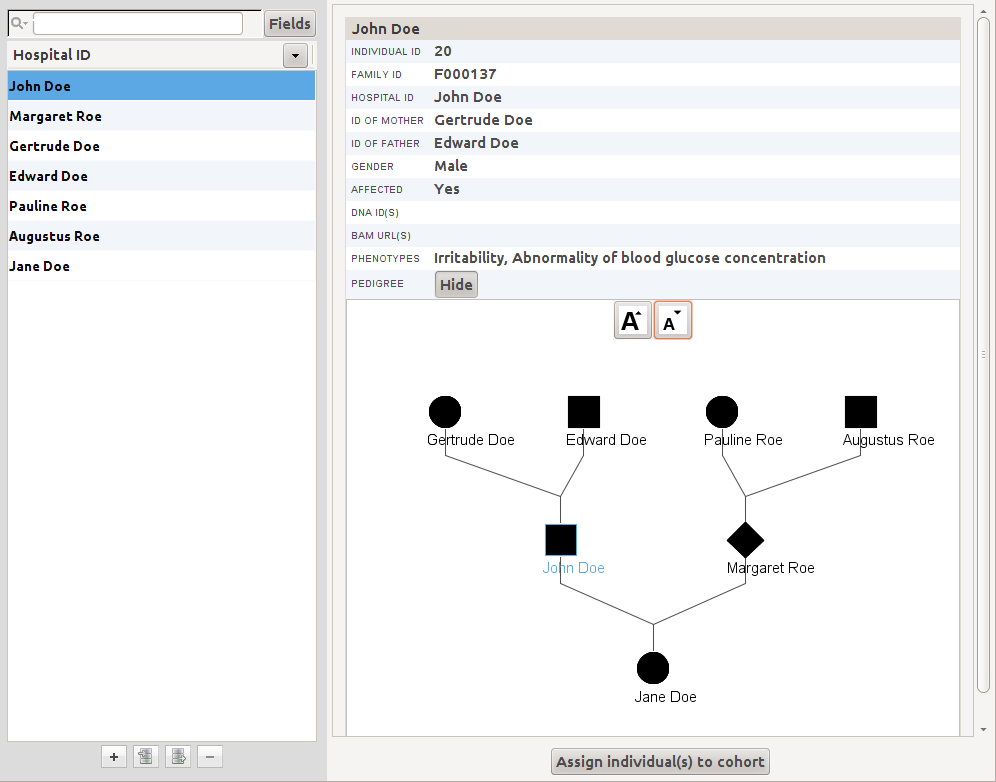
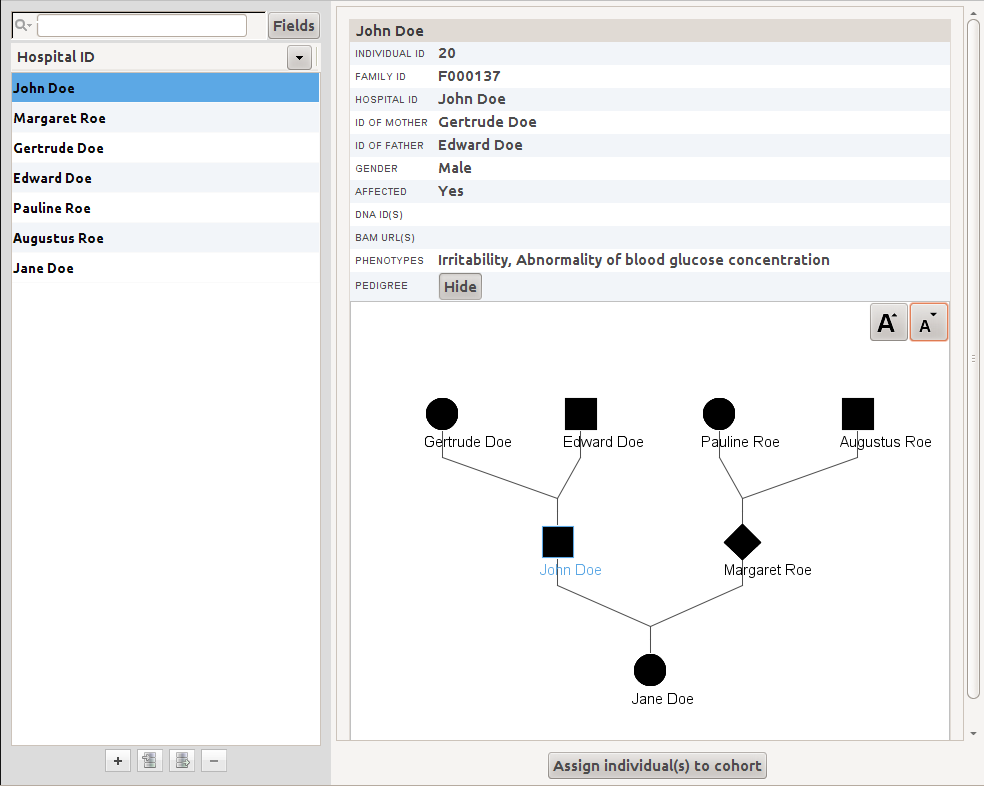
Some manual cleanup, visual tweaks.

diff --git a/medsavant/tutorials/browsingvariants/spreadsheet.html b/medsavant/tutorials/browsingvariants/spreadsheet.html
@@ -5,7 +5,7 @@ button in the main pane towards the center of the MedSavant window.  Each varian
 <h4><a id="VariantInspector">Variant Inspector</a></h4>
 <p>The "Inspector" is a powerful feature found in the Spreadsheet subsection and elsewhere within the "Variants" section of MedSavant.  The Inspector can be accessed by clicking the "Inspector" button, located near the top of the MedSavant window just below the section selection button bar.  Clicking this displays a panel to the right showing information about the selected variant including <b>Basic Variant Information</b>: i.e. the chromosomal position, Reference and Alternate nucleotides, type of mutation, and a drop-down list of Genes associated with the position (<span class="ref" id="basicvar"> </span>). </p>
 
-<div class="row">
+<div class="row fixed-figure">
 	<div class="span6 offset1">
 		<img src="./tutorials/browsingvariants/images/inspector_variant.png" />
 	</div>
@@ -22,12 +22,9 @@ button in the main pane towards the center of the MedSavant window.  Each varian
 	</div>
 </div>
 
-<div class="row">
-	<div class="span11 offset1">
-		<div class="caption" id="basicvar">
-  		Example of the "Inspector" view for the selected position 12,009,911 on Chromosome 1.  Clicking the 'Show' button displays additional information including DP, AF1, AC1, DP4, MQ, FQ, and PV4. <span style="color:red">Marc: Insert text here</span>.  
-		</div>
-	</div>
+
+<div class="caption" id="basicvar">
+	Example of the "Inspector" view for the selected position 12,009,911 on Chromosome 1.  Clicking the 'Show' button displays additional information including DP, AF1, AC1, DP4, MQ, FQ, and PV4. <span style="color:red">Marc: Insert text here</span>.  
 </div>
 
 <p>Just below the variant information is a textbox where comments can be viewed and edited for this variant, and below that is a list of individuals that possess any variant at the selected position.  Clicking any of these individuals will display the particular polymorphism, insertion, or deletion associated with that individual.  Then, clicking the 'Show' button will de-select the currently selected variant, and load the variant corresponding to the selected individual into the inspector (<span class="ref" id="indswithvariant"></span>, right side).  Below this are two buttons that launch a hierarchical display of the variants at this position, organized by Cohort or Family (<span class="ref" id="indswithvariant"></span>, left side).  In this way, one can see at a glance which variants are over-represented within a Cohort or family, or relative to the entire database of DNA sequences.  </p>
@@ -45,7 +42,7 @@ button in the main pane towards the center of the MedSavant window.  Each varian
 <p> The Gene Inspector can be launched by clicking the "Gene" tab of the inspector, or via the <img class="inline_icon" src="./tutorials/browsingvariants/icons/inspector2.png" /> button in <span class="ref" id="basicvar"></span>.  This inspector is organized into four sub-panels of information: "Gene Details", "Individuals with a variant in this gene", "Ontology", and "Related Genes".  The "Gene Details" section contains basic information including the name of the gene, its chromosomal position, and its DNA sequence length (<span style="color:red;">exons only?</span>) (<span class="ref" id="inspector_gene"></span>).  Immediately below, the "Individuals with a variant in this gene" section lists all individuals that possess any type of variant that lies within the range delimited by the start and end of this Gene's sequence.  Clicking any individual will bring up a summary of the variants that individual possesses.  In <span class="ref" id="inspector_gene"></span>, the individual with sequence identifier DB_MD_244_M9-1 has three heterozygous insertions <span style="color:red">(are these meaningful?  only spaced by 1-2 nucleotides)</span> at various positions within this gene (PRDM2).  Clicking the <img class="inline_icon" src="./tutorials/browsingvariants/icons/expand.png" /> icon beside any of the listed variants provides additional detail on the Reference and Alternate sequences for that variant.
 	
 	
-<div class="row">
+<div class="row fixed-figure">
 	<div class="span6 offset1">
 		<img src = "./tutorials/browsingvariants/images/inspector_gene.png" />		
 	</div>
@@ -77,15 +74,11 @@ button in the main pane towards the center of the MedSavant window.  Each varian
     </div>
 	</div>
 </div>
-
-<div class="row">
-	<div class="span11 offset1">
-		<div class="caption" id="inspector_gene">
- 			Gene Inspector		
- 		</div>
-	</div>
+		
+<div class="caption" id="inspector_gene">
+	Gene Inspector for the gene PRDM2.  		
 </div>
-	
+		
 <p>Similar to the Cohort and Family analysis tools in the previous <a href="#VariantInspector">Variant Inspector</a> section, the Gene Inspector section also includes two buttons to view the frequency with which variants occur in the selected gene by Cohort or by Family.  These work similarily to those in the previous section, but include an additional 'Position' column, as <b>all</b> variants for the selected gene are shown (<span class="ref" id="genecohortanalysis" /></span>).</p>
 
 <div class="figure">
@@ -100,7 +93,7 @@ button in the main pane towards the center of the MedSavant window.  Each varian
 <p> Each GeneMANIA prediction is listed in descending order of similarity to the selected query gene, so that the most similar genes are listed first.  The variation frequency, listed beside each gene, displays the fraction of variant positions per kilobase (<span style="color:red;">Is this right?</span>), and several buttons as summarized in <span class="ref" id="genemania"></span>.</p>
 
 
-<div class="row">
+<div class="row fixed-figure">
 	<div class="span6 offset1">
 		<img src = "./tutorials/browsingvariants/images/related_genes.png" />		
 	</div>
@@ -129,13 +122,11 @@ button in the main pane towards the center of the MedSavant window.  Each varian
     </div>
 	</div>
 </div>
-
-<div class="row">
-	<div class="span11 offset1">
-		<div class="caption" id="genemania">
-    	Genes related to the selected (query) gene, found by the GeneMANIA algorithm.  Genes that are most similar to the query gene are shown first.
- 		</div>
-	</div>
+		
+<div class="caption" id="genemania">
+	Genes related to the selected (query) gene, found by the GeneMANIA algorithm.  Genes that are most similar to the query gene are shown first.
 </div>
+ 		
+ 		
 
 

diff --git a/medsavant/tutorials/dataentry/patients.html b/medsavant/tutorials/dataentry/patients.html
@@ -4,17 +4,17 @@ After logging into MedSavant, or clicking the 'Project' section, a summary will 
 patients (individuals) and cohorts can be added via the 'Patients' and Cohorts subsections, respectively, from this section. 
 </p>
 <h4>Adding and Removing Patients</h4>
-<p>Patients can be added manually, one at a time by clicking the <img class="inline_icon" src="./tutorials/dataentry/icons/add.png" /> icon near the bottom left of the MedSavant window.  This pops up the 
+<p>Patients can be added manually, one at a time by clicking the <img class="inline_icon" src="./tutorials/dataentry/icons/mac_add.png" /> icon near the bottom left of the MedSavant window.  This pops up the 
 "Add Patient" window, containing various fields, all of which are optional except the Hospital ID, that can be filled out.  Some fields - including DNA ID(s), BAM URL(s), and Phenotypes 
 support multiple values, which should be separated by new lines.  BAM URL(s) should be prefixed with the appropriate protocol -- e.g. http:// or https://.  After adding an 
 individual, the hospital ID for that individual will be listed in the left pane, and selecting that identifier will display the record for that individual. Individuals may also be removed
-by clicking the <img src="inline_icon" src="./tutorials/dataentry/icons/remove.png" /> icon located near the bottom left of the MedSavant window.   </p>
+by clicking the <img class="inline_icon" src="./tutorials/dataentry/icons/mac_remove.png" /> icon located near the bottom left of the MedSavant window.   </p>
 
 <!-- Pedigrees -->
 <p>Selecting an individual in in the left pane will load the corresponding record in the right pane.  In addition to basic patient information, the pedigree for the patient can be viewed
 by clicking the 'Show' button beside 'Pedigree'.  Pedigrees are generated based on the Family ID, Hospital ID, and IDs of the mother and father.  Specifically, a node in the pedigree graph 
 is created for each individual that has the same the Family ID of the selected patient, and an edge links two family members whenever the hospital ID of the parent matches the "ID of Mother"
-or "ID of Father" field associated with the child (<span class="ref" id="pedigree"></span>).  Two buttons just above the pedigree graph allow the font size to be increased 
+or "ID of Father" field associated with the child (<span class="ref" id="pedigree"></span>).  Two buttons in the upper right of the pedigree graph allow the font size to be increased 
 (<img class="inline_icon" src="./tutorials/dataentry/icons/font_increase.png" />) or decreased (<img class="inline_icon" src="./tutorials/dataentry/icons/font_decrease.png" />). </p>
 
 <div class="figure">
@@ -53,9 +53,9 @@ available <a href="./tutorials/dataentry/sample_patients.csv">here</a></p>
 <p>
 Patients can be added to a Cohort by selecting one or more individuals within the "Patients" subsection, and then clicking "Assign individual(s) to Cohort" 
 (<span class="ref" id="pedigree" />). The Cohorts themselves are created in a separate "Cohorts" subsection, within the "Project" section.  In this subsection, you can add and delete 
-Cohorts by clicking the <img class="inline_icon" src="./tutorials/dataentry/icons/add.png" /> or <img class="inline_icon" src="./tutorials/dataentry/icons/remove.png" /> icons, 
+Cohorts by clicking the <img class="inline_icon" src="./tutorials/dataentry/icons/mac_add.png" /> or <img class="inline_icon" src="./tutorials/dataentry/icons/mac_remove.png" /> icons, 
 respectively, both located towards the lower left of the MedSavant window (<span id="ref" class="cohort"></span>).  Clicking any Cohort in the left pane will display the members of that Cohort in the right pane.  To remove 
-an individual from a Cohort, click the <img class="inline_icon" src="./tutorials/dataentry/icons/remove.png" /> icon immediately below the list of users.
+an individual from a Cohort, click the <img class="inline_icon" src="./tutorials/dataentry/icons/mac_remove.png" /> icon immediately below the list of users.
 </p>
 <div class="figure">
   <img src="./tutorials/dataentry/images/cohort.png" />

diff --git a/medsavant/tutorials/browsingvariants/charts.html b/medsavant/tutorials/browsingvariants/charts.html
@@ -1,12 +1,12 @@
 <h3>Visualizing Trends</h3>
-MedSavant includes charting tools to explore the variant database through the construction of histograms.  These tools are located in the "Variants" section, under the subsection "Charts".  <span class="ref" id="chart"></span> shows the main features.  Each chart is a graph of the distribution of a particular variant attribute - e.g. its position, reference or alternate value, gender of the individual from which it was identified, DNA identifier, etc.  The variable of interest can be changed via the "Chart" drop-down menu in the upper left portion of the chart display.  </p> 
+MedSavant includes charting tools to explore the variant database through the construction of histograms.  These tools are located in the "Variants" section, under the subsection "Charts".  <span class="ref" id="chart"></span> shows the main features.  Each chart is a graph of the distribution of a particular variant attribute -- e.g. its position, reference/alternate value, gender of the individual from which it was identified, or DNA identifier -- among the variants that were returned by the current search.  The variable of interest can be changed via the "Chart" drop-down menu in the upper left portion of the chart display.  </p> 
 <div class="figure">
   <img src="./tutorials/browsingvariants/images/chart1.png" />
 <div id="chart" class="caption">
   Sample chart graphing the distribution of variants across Chromosomes.  
 </div>
 </div>
-<p>The selected attribute can be further grouped by another secondary attribute, selected via the "Group by" drop-down menu towards the upper right of the chart display.  Grouping by a second attribute introduces a legend, and plots a separate histogram for each distinct value of the secondary attribute (<span class="ref" id="chartgb"></span>).  By default, continuous attributes are "binned" (discretized) into equal ranges pre-selected for that attribute (<span style="color: red">Marc: add more on how this is done?</span>).  When graphing a single attribute, checkboxes at the bottom of the chart can be used to display a pie chart, show original frequencies (<span color="red">what does this mean?  no effect?</span>), sort categorical attributes by frequency (so that the most frequent categories are left-most), or convert the X or Y-axis to a log scale. </p>
+<p>The selected attribute can be further grouped by another secondary attribute, selected via the "Group by" drop-down menu towards the upper right of the chart display.  Grouping by a second attribute introduces a legend, and plots a separate histogram for each distinct value of the secondary attribute (<span class="ref" id="chartgb"></span>).  By default, continuous attributes are "binned" (discretized) into equal ranges pre-selected for that attribute (<span style="color: red">Marc: add more on how this is done?</span>).  When graphing a single attribute, checkboxes at the bottom of the chart can be used to display a pie chart, sort categorical attributes by frequency (so that the most frequent categories are left-most), or convert the X or Y-axis to a log scale. The option "show original frequencies" will display the frequencies of each bin within the entire database of variants, overlaid on the histogram calculated on the current search results.</p>
 <div class="figure">
   <img src="./tutorials/browsingvariants/images/chart2.png" />
   <div id="chartgb" class="caption">

diff --git a/medsavant/tutorials/browsingvariants/enrichment.html b/medsavant/tutorials/browsingvariants/enrichment.html
@@ -4,7 +4,7 @@
 <p>The enrichment analysis App counts the number of variants with a particular property, similar to the charting tool covered in the <a href="Visualizing.Trends.html">previous tutorial</a>.  However, the properties supported by the Enrichment app are loaded from external databases and take longer to compute.  Variants may be aggregated based on a <a href="#">Region List</a>, Family, Cohort, or Ontology.  To demonstrate, consider an analysis based on the gene ontology (GO), performed by choosing "Ontology" from the "Aggregate varaints by" drop-down near the top left of the Enrichment App pane, and then choosing "GO - Gene Ontology" from the Ontology drop-down (<span class="ref" id="enrichment"></span>).  This presents a table of expandable rows that functions similarily to that of the Family and Cohort tools found in the <a href="Browsing.the.Spreadsheet.html">Spreadsheet section</a>.  Each row can be expanded (<img class="inline_icon" src="./tutorials/browsingvariants/icons/expand.png" />) or collapsed (<img class="inline_icon" src="./tutorials/browsingvariants/icons/collapse.png" />) to navigate the GO Hierarchy, and the total number of variants that occur within genes possessing the corresponding annotation in each row is given in the "Variant Count" column.  </p>
 
 <div class="figure">
-  <img src="./tutorials/browsingvaraints/images/aggregation.png" />
+  <img src="./tutorials/browsingvariants/images/aggregation.png" />
   <div id="enrichment" class="caption">
     Portion of a GO enrichment analysis showing, for each row, the number of variants that lie within genes that have the corresponding annotation.  For example, here 215 variants are associated with neuron cell death.
   </div>

diff --git a/assets/css/tutorial.css b/assets/css/tutorial.css
@@ -23,18 +23,25 @@ z-index: -1;
 
 
 .fixed-figure{
+margin-top: 20px;
+}
+
+.old-fixed-figure{
 position: relative;
 margin-left: auto;
 margin-right: auto;
+
 width:50%;
 text-align: center;
 }
+
 
 .fixed-figure img{
 position: relative;
 display: block;
 margin-left: auto;
 margin-right: auto;
+margin-top: 20px;
 z-index: -1;
 }
 
@@ -52,6 +59,7 @@ margin-left: auto;
 margin-right: auto;
 width: 400px;
 z-index: -1;
+#margin-top: 20px;
 }
 
 .figure img{
@@ -59,11 +67,13 @@ width: auto;
 }
 .caption{
 font-size:10pt;
-text-align: center;
+text-align: left;
+margin-bottom: 20px;
 }
+
 .caption img{ 
-              display: inline;
-              }
+display: inline;
+}
 
 .inline_icon{
 vertical-align: middle;
